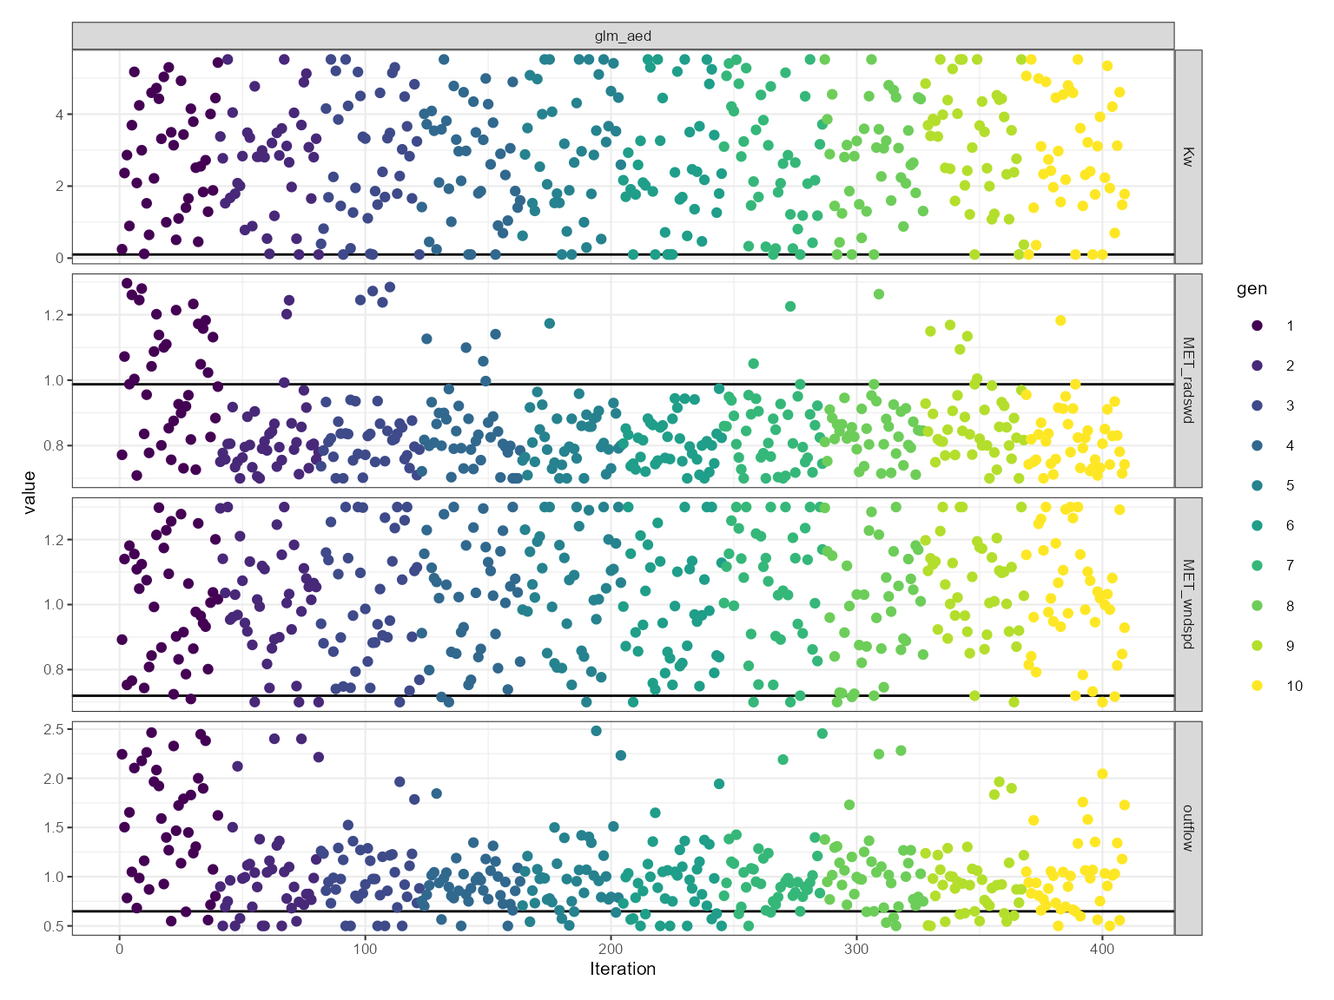
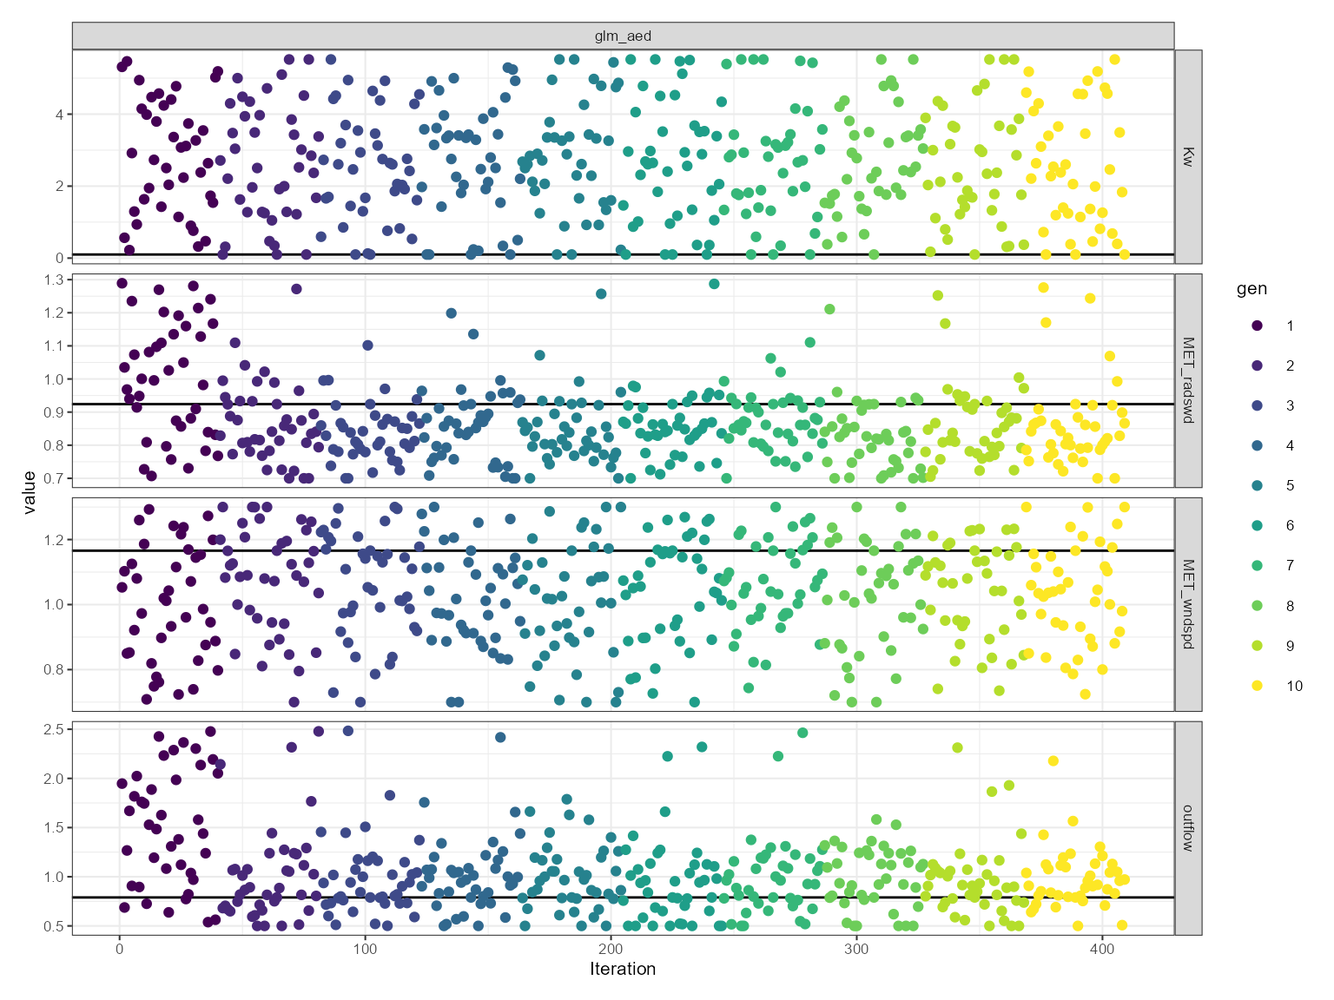
Deploying to gh-pages from @ limnotrack/aemetools@9dd07097c625ccba94eaa6a8db407fb41fca2c87 🚀

diff --git a/articles/calibrate-aeme.html b/articles/calibrate-aeme.html
@@ -123,7 +123,7 @@ setup. For this example, we will use the <code>glm_aed</code> model. The
 <span>                            model <span class="op">=</span> <span class="va">model</span>, mod_ctrls <span class="op">=</span> <span class="va">mod_ctrls</span>,</span>
 <span>                            inf_factor <span class="op">=</span> <span class="va">inf_factor</span>, ext_elev <span class="op">=</span> <span class="fl">5</span>,</span>
 <span>                            use_bgc <span class="op">=</span> <span class="cn">FALSE</span>, use_lw <span class="op">=</span> <span class="cn">TRUE</span><span class="op">)</span></span>
-<span><span class="co">#&gt; Building simulation for Wainamu [2023-11-03 00:59:42.915831]</span></span>
+<span><span class="co">#&gt; Building simulation for Wainamu [2023-11-03 03:39:53.589424]</span></span>
 <span><span class="co">#&gt; Using observed water level</span></span>
 <span><span class="co">#&gt; Estimating temperature using Stefan &amp; Preud'homme (2007)...</span></span>
 <span><span class="co">#&gt; Observed lake level is present. Updating initial lake model depth...</span></span>
@@ -135,9 +135,9 @@ make sure the current model setup is working.</p>
 <code class="sourceCode R"><span><span class="va">aeme_data</span> <span class="op">&lt;-</span> <span class="fu"><a href="https://rdrr.io/pkg/AEME/man/run_aeme.html" class="external-link">run_aeme</a></span><span class="op">(</span>aeme_data <span class="op">=</span> <span class="va">aeme_data</span>, model <span class="op">=</span> <span class="va">model</span>,</span>
 <span>                      verbose <span class="op">=</span> <span class="cn">FALSE</span>, mod_ctrls <span class="op">=</span> <span class="va">mod_ctrls</span>,</span>
 <span>                      path <span class="op">=</span> <span class="va">path</span><span class="op">)</span></span>
-<span><span class="co">#&gt; Running models... (Have you tried parallelizing?) [2023-11-03 00:59:44.57077]</span></span>
-<span><span class="co">#&gt; GLM-AED run successful! [2023-11-03 00:59:45.437586]</span></span>
-<span><span class="co">#&gt; Model run complete![2023-11-03 00:59:45.438628]</span></span>
+<span><span class="co">#&gt; Running models... (Have you tried parallelizing?) [2023-11-03 03:39:54.978065]</span></span>
+<span><span class="co">#&gt; GLM-AED run successful! [2023-11-03 03:39:55.828196]</span></span>
+<span><span class="co">#&gt; Model run complete![2023-11-03 03:39:55.829278]</span></span>
 <span><span class="co">#&gt; Retrieving and formatting temp for model glm_aed</span></span>
 <span><span class="co">#&gt; Retrieving and formatting salt for model glm_aed</span></span>
 <span><span class="co"># outp &lt;- AEME::output(aeme_data)</span></span>
@@ -238,9 +238,9 @@ but the model output is generate within the lake folder.</p>
 <div class="sourceCode" id="cb7"><pre class="downlit sourceCode r">
 <code class="sourceCode R"><span><span class="fu"><a href="../reference/run_aeme_param.html">run_aeme_param</a></span><span class="op">(</span>aeme_data <span class="op">=</span> <span class="va">aeme_data</span>, param <span class="op">=</span> <span class="va">aeme_parameters</span>,</span>
 <span>                 model <span class="op">=</span> <span class="va">model</span>, path <span class="op">=</span> <span class="va">path</span>, mod_ctrls <span class="op">=</span> <span class="va">mod_ctrls</span><span class="op">)</span></span>
-<span><span class="co">#&gt; Running models... (Have you tried parallelizing?) [2023-11-03 00:59:49.646355]</span></span>
-<span><span class="co">#&gt; GLM-AED run successful! [2023-11-03 00:59:50.492081]</span></span>
-<span><span class="co">#&gt; Model run complete![2023-11-03 00:59:50.493055]</span></span></code></pre></div>
+<span><span class="co">#&gt; Running models... (Have you tried parallelizing?) [2023-11-03 03:40:06.794954]</span></span>
+<span><span class="co">#&gt; GLM-AED run successful! [2023-11-03 03:40:07.537384]</span></span>
+<span><span class="co">#&gt; Model run complete![2023-11-03 03:40:07.538652]</span></span></code></pre></div>
 </div>
 <div class="section level2">
 <h2 id="calibration-setup">Calibration setup<a class="anchor" aria-label="anchor" href="#calibration-setup"></a>
@@ -374,79 +374,79 @@ values.</p>
 <span>                   param <span class="op">=</span> <span class="va">aeme_parameters</span>, model <span class="op">=</span> <span class="va">model</span>,</span>
 <span>                   mod_ctrls <span class="op">=</span> <span class="va">mod_ctrls</span>, FUN <span class="op">=</span> <span class="va">fit</span>, ctrl <span class="op">=</span> <span class="va">ctrl</span>,</span>
 <span>                   vars_sim <span class="op">=</span> <span class="va">vars_sim</span>, weights <span class="op">=</span> <span class="va">weights</span><span class="op">)</span></span>
-<span><span class="co">#&gt; Extracting indices for modelled variables [2023-11-03 00:59:50.892015]</span></span>
-<span><span class="co">#&gt; Complete! [2023-11-03 00:59:51.927541]</span></span>
+<span><span class="co">#&gt; Extracting indices for modelled variables [2023-11-03 03:40:07.935279]</span></span>
+<span><span class="co">#&gt; Complete! [2023-11-03 03:40:08.817009]</span></span>
 <span><span class="co">#&gt; Calibrating in parallel using 1 cores...</span></span>
-<span><span class="co">#&gt; Starting generation 1/10, 40 members. [2023-11-03 00:59:52.292958]</span></span>
+<span><span class="co">#&gt; Starting generation 1/10, 40 members. [2023-11-03 03:40:09.122211]</span></span>
 <span><span class="co">#&gt;        light.Kw MET_wndspd MET_radswd outflow</span></span>
-<span><span class="co">#&gt; mean      2.805     0.9993     0.9998  1.5020</span></span>
-<span><span class="co">#&gt; median    2.791     0.9994     0.9957  1.4850</span></span>
-<span><span class="co">#&gt; sd        1.586     0.1740     0.1753  0.5837</span></span>
-<span><span class="co">#&gt; Best fit: 2.451 (sd: 327.23)</span></span>
-<span><span class="co">#&gt;             Parameters: [0.118, 0.743, 0.836, 1.162]</span></span>
+<span><span class="co">#&gt; mean      2.820     0.9996     1.0000  1.5030</span></span>
+<span><span class="co">#&gt; median    2.825     0.9989     0.9981  1.5070</span></span>
+<span><span class="co">#&gt; sd        1.576     0.1750     0.1752  0.5837</span></span>
+<span><span class="co">#&gt; Best fit: 2.605 (sd: 327.378)</span></span>
+<span><span class="co">#&gt;             Parameters: [0.471, 0.876, 0.783, 1.239]</span></span>
 <span><span class="co">#&gt; Survival rate: 1</span></span>
-<span><span class="co">#&gt; Starting generation 2/10, 40 members. [2023-11-03 01:00:35.014708]</span></span>
+<span><span class="co">#&gt; Starting generation 2/10, 40 members. [2023-11-03 03:40:47.698572]</span></span>
 <span><span class="co">#&gt;        light.Kw MET_wndspd MET_radswd outflow</span></span>
-<span><span class="co">#&gt; mean      2.681     1.0090     0.8231  1.0320</span></span>
-<span><span class="co">#&gt; median    2.821     1.0160     0.7957  0.9629</span></span>
-<span><span class="co">#&gt; sd        1.450     0.1609     0.1153  0.4922</span></span>
-<span><span class="co">#&gt; Best fit: 2.4509 (sd: 236.8)</span></span>
+<span><span class="co">#&gt; mean      2.640     1.0800     0.8670  1.0010</span></span>
+<span><span class="co">#&gt; median    2.522     1.0900     0.8410  0.8659</span></span>
+<span><span class="co">#&gt; sd        1.607     0.1607     0.1185  0.4683</span></span>
+<span><span class="co">#&gt; Best fit: 2.3298 (sd: 215.42)</span></span>
 <span><span class="co">#&gt; Survival rate: 1</span></span>
-<span><span class="co">#&gt; Starting generation 3/10, 40 members. [2023-11-03 01:01:19.537972]</span></span>
+<span><span class="co">#&gt; Starting generation 3/10, 40 members. [2023-11-03 03:41:30.273111]</span></span>
 <span><span class="co">#&gt;        light.Kw MET_wndspd MET_radswd outflow</span></span>
-<span><span class="co">#&gt; mean      2.770     1.0080     0.8536  1.0050</span></span>
-<span><span class="co">#&gt; median    2.831     0.9661     0.8222  0.9764</span></span>
-<span><span class="co">#&gt; sd        1.727     0.1936     0.1498  0.3299</span></span>
-<span><span class="co">#&gt; Best fit: 2.4474 (sd: 185.47)</span></span>
+<span><span class="co">#&gt; mean      2.544     1.0610    0.83650  0.9765</span></span>
+<span><span class="co">#&gt; median    2.604     1.1090    0.82870  0.9031</span></span>
+<span><span class="co">#&gt; sd        1.489     0.1614    0.08511  0.3794</span></span>
+<span><span class="co">#&gt; Best fit: 2.3298 (sd: 206.41)</span></span>
 <span><span class="co">#&gt; Survival rate: 1</span></span>
-<span><span class="co">#&gt; Starting generation 4/10, 40 members. [2023-11-03 01:02:04.70572]</span></span>
+<span><span class="co">#&gt; Starting generation 4/10, 40 members. [2023-11-03 03:42:12.734401]</span></span>
 <span><span class="co">#&gt;        light.Kw MET_wndspd MET_radswd outflow</span></span>
-<span><span class="co">#&gt; mean      2.624     1.0140     0.8439  0.9268</span></span>
-<span><span class="co">#&gt; median    2.898     1.0360     0.8139  0.9114</span></span>
-<span><span class="co">#&gt; sd        1.529     0.1776     0.1146  0.2417</span></span>
-<span><span class="co">#&gt; Best fit: 2.345 (sd: 118.21)</span></span>
+<span><span class="co">#&gt; mean      2.680      1.021     0.8587  1.0080</span></span>
+<span><span class="co">#&gt; median    2.794      1.012     0.8650  0.9890</span></span>
+<span><span class="co">#&gt; sd        1.589      0.151     0.1111  0.3659</span></span>
+<span><span class="co">#&gt; Best fit: 2.3298 (sd: 190.29)</span></span>
 <span><span class="co">#&gt; Survival rate: 1</span></span>
-<span><span class="co">#&gt; Starting generation 5/10, 40 members. [2023-11-03 01:02:50.378204]</span></span>
+<span><span class="co">#&gt; Starting generation 5/10, 40 members. [2023-11-03 03:42:54.419015]</span></span>
 <span><span class="co">#&gt;        light.Kw MET_wndspd MET_radswd outflow</span></span>
-<span><span class="co">#&gt; mean      3.017     1.0520    0.82450  1.0200</span></span>
-<span><span class="co">#&gt; median    2.968     1.0670    0.80030  0.9763</span></span>
-<span><span class="co">#&gt; sd        1.734     0.1775    0.09415  0.4058</span></span>
-<span><span class="co">#&gt; Best fit: 2.345 (sd: 223.28)</span></span>
+<span><span class="co">#&gt; mean      2.809     1.0060     0.8446  0.9972</span></span>
+<span><span class="co">#&gt; median    2.715     1.0160     0.8242  0.9656</span></span>
+<span><span class="co">#&gt; sd        1.514     0.1755     0.1029  0.3287</span></span>
+<span><span class="co">#&gt; Best fit: 2.3298 (sd: 206.14)</span></span>
 <span><span class="co">#&gt; Survival rate: 1</span></span>
-<span><span class="co">#&gt; Starting generation 6/10, 40 members. [2023-11-03 01:03:34.892398]</span></span>
+<span><span class="co">#&gt; Starting generation 6/10, 40 members. [2023-11-03 03:43:37.098902]</span></span>
 <span><span class="co">#&gt;        light.Kw MET_wndspd MET_radswd outflow</span></span>
-<span><span class="co">#&gt; mean      2.562     0.9847    0.80870  0.9324</span></span>
-<span><span class="co">#&gt; median    2.175     0.9670    0.80610  0.9340</span></span>
-<span><span class="co">#&gt; sd        1.730     0.1790    0.07234  0.3289</span></span>
-<span><span class="co">#&gt; Best fit: 2.345 (sd: 182.9)</span></span>
+<span><span class="co">#&gt; mean      2.652     1.0390     0.8597  0.9405</span></span>
+<span><span class="co">#&gt; median    2.646     1.0560     0.8499  0.9375</span></span>
+<span><span class="co">#&gt; sd        1.688     0.1604     0.1001  0.4224</span></span>
+<span><span class="co">#&gt; Best fit: 2.3298 (sd: 185.48)</span></span>
 <span><span class="co">#&gt; Survival rate: 1</span></span>
-<span><span class="co">#&gt; Starting generation 7/10, 40 members. [2023-11-03 01:04:19.840863]</span></span>
+<span><span class="co">#&gt; Starting generation 7/10, 40 members. [2023-11-03 03:44:19.65776]</span></span>
 <span><span class="co">#&gt;        light.Kw MET_wndspd MET_radswd outflow</span></span>
-<span><span class="co">#&gt; mean      2.761     1.0540     0.8421  1.0120</span></span>
-<span><span class="co">#&gt; median    2.823     1.0830     0.8448  0.9382</span></span>
-<span><span class="co">#&gt; sd        1.745     0.1878     0.1110  0.3733</span></span>
-<span><span class="co">#&gt; Best fit: 2.3313 (sd: 189.96)</span></span>
+<span><span class="co">#&gt; mean      2.659     1.0590    0.87260  0.9952</span></span>
+<span><span class="co">#&gt; median    2.805     1.0540    0.86160  0.9625</span></span>
+<span><span class="co">#&gt; sd        1.599     0.1341    0.08583  0.3978</span></span>
+<span><span class="co">#&gt; Best fit: 2.3298 (sd: 164.87)</span></span>
 <span><span class="co">#&gt; Survival rate: 1</span></span>
-<span><span class="co">#&gt; Starting generation 8/10, 40 members. [2023-11-03 01:05:04.352137]</span></span>
+<span><span class="co">#&gt; Starting generation 8/10, 40 members. [2023-11-03 03:45:01.78786]</span></span>
 <span><span class="co">#&gt;        light.Kw MET_wndspd MET_radswd outflow</span></span>
-<span><span class="co">#&gt; mean      2.706     0.9856    0.84790  1.0410</span></span>
-<span><span class="co">#&gt; median    2.832     0.9955    0.84500  1.0000</span></span>
-<span><span class="co">#&gt; sd        1.507     0.1778    0.09623  0.3859</span></span>
-<span><span class="co">#&gt; Best fit: 2.3313 (sd: 203.18)</span></span>
+<span><span class="co">#&gt; mean      2.689     1.0230     0.8263  0.9887</span></span>
+<span><span class="co">#&gt; median    2.438     1.0340     0.8250  0.9806</span></span>
+<span><span class="co">#&gt; sd        1.401     0.1681     0.1008  0.3038</span></span>
+<span><span class="co">#&gt; Best fit: 2.3298 (sd: 162.33)</span></span>
 <span><span class="co">#&gt; Survival rate: 1</span></span>
-<span><span class="co">#&gt; Starting generation 9/10, 40 members. [2023-11-03 01:05:48.448981]</span></span>
+<span><span class="co">#&gt; Starting generation 9/10, 40 members. [2023-11-03 03:45:43.994798]</span></span>
 <span><span class="co">#&gt;        light.Kw MET_wndspd MET_radswd outflow</span></span>
-<span><span class="co">#&gt; mean      3.216     1.0540     0.8740  0.9471</span></span>
-<span><span class="co">#&gt; median    3.508     1.0850     0.8450  0.9145</span></span>
-<span><span class="co">#&gt; sd        1.564     0.1504     0.1162  0.3508</span></span>
-<span><span class="co">#&gt; Best fit: 2.3313 (sd: 180.54)</span></span>
+<span><span class="co">#&gt; mean      2.490     1.0380     0.8636  0.9599</span></span>
+<span><span class="co">#&gt; median    2.244     1.0670     0.8470  0.9060</span></span>
+<span><span class="co">#&gt; sd        1.573     0.1482     0.1121  0.3772</span></span>
+<span><span class="co">#&gt; Best fit: 2.3298 (sd: 192.57)</span></span>
 <span><span class="co">#&gt; Survival rate: 1</span></span>
-<span><span class="co">#&gt; Starting generation 10/10, 40 members. [2023-11-03 01:06:33.871577]</span></span>
+<span><span class="co">#&gt; Starting generation 10/10, 40 members. [2023-11-03 03:46:27.110659]</span></span>
 <span><span class="co">#&gt;        light.Kw MET_wndspd MET_radswd outflow</span></span>
-<span><span class="co">#&gt; mean      2.871     1.0210    0.81990  0.9874</span></span>
-<span><span class="co">#&gt; median    2.740     1.0190    0.81290  0.9404</span></span>
-<span><span class="co">#&gt; sd        1.666     0.1819    0.09704  0.3621</span></span>
-<span><span class="co">#&gt; Best fit: 2.3313 (sd: 221.66)</span></span>
+<span><span class="co">#&gt; mean      2.529     1.0290     0.8598  0.9765</span></span>
+<span><span class="co">#&gt; median    2.382     1.0360     0.8285  0.9181</span></span>
+<span><span class="co">#&gt; sd        1.670     0.1536     0.1294  0.2985</span></span>
+<span><span class="co">#&gt; Best fit: 2.3298 (sd: 156.32)</span></span>
 <span><span class="co">#&gt; Survival rate: 1</span></span></code></pre></div>
 </div>
 <div class="section level2">

diff --git a/reference/update_param.html b/reference/update_param.html
@@ -1,0 +1,94 @@
+<!DOCTYPE html>
+<!-- Generated by pkgdown: do not edit by hand --><html lang="en"><head><meta http-equiv="Content-Type" content="text/html; charset=UTF-8"><meta charset="utf-8"><meta http-equiv="X-UA-Compatible" content="IE=edge"><meta name="viewport" content="width=device-width, initial-scale=1, shrink-to-fit=no"><meta name="description" content="Update parameter values in param based on best_pars"><title>Update parameter values in param based on best_pars — update_param • aemetools</title><script src="../deps/jquery-3.6.0/jquery-3.6.0.min.js"></script><meta name="viewport" content="width=device-width, initial-scale=1, shrink-to-fit=no"><link href="../deps/bootstrap-5.2.2/bootstrap.min.css" rel="stylesheet"><script src="../deps/bootstrap-5.2.2/bootstrap.bundle.min.js"></script><!-- Font Awesome icons --><link rel="stylesheet" href="https://cdnjs.cloudflare.com/ajax/libs/font-awesome/5.12.1/css/all.min.css" integrity="sha256-mmgLkCYLUQbXn0B1SRqzHar6dCnv9oZFPEC1g1cwlkk=" crossorigin="anonymous"><link rel="stylesheet" href="https://cdnjs.cloudflare.com/ajax/libs/font-awesome/5.12.1/css/v4-shims.min.css" integrity="sha256-wZjR52fzng1pJHwx4aV2AO3yyTOXrcDW7jBpJtTwVxw=" crossorigin="anonymous"><!-- bootstrap-toc --><script src="https://cdn.jsdelivr.net/gh/afeld/bootstrap-toc@v1.0.1/dist/bootstrap-toc.min.js" integrity="sha256-4veVQbu7//Lk5TSmc7YV48MxtMy98e26cf5MrgZYnwo=" crossorigin="anonymous"></script><!-- headroom.js --><script src="https://cdnjs.cloudflare.com/ajax/libs/headroom/0.11.0/headroom.min.js" integrity="sha256-AsUX4SJE1+yuDu5+mAVzJbuYNPHj/WroHuZ8Ir/CkE0=" crossorigin="anonymous"></script><script src="https://cdnjs.cloudflare.com/ajax/libs/headroom/0.11.0/jQuery.headroom.min.js" integrity="sha256-ZX/yNShbjqsohH1k95liqY9Gd8uOiE1S4vZc+9KQ1K4=" crossorigin="anonymous"></script><!-- clipboard.js --><script src="https://cdnjs.cloudflare.com/ajax/libs/clipboard.js/2.0.6/clipboard.min.js" integrity="sha256-inc5kl9MA1hkeYUt+EC3BhlIgyp/2jDIyBLS6k3UxPI=" crossorigin="anonymous"></script><!-- search --><script src="https://cdnjs.cloudflare.com/ajax/libs/fuse.js/6.4.6/fuse.js" integrity="sha512-zv6Ywkjyktsohkbp9bb45V6tEMoWhzFzXis+LrMehmJZZSys19Yxf1dopHx7WzIKxr5tK2dVcYmaCk2uqdjF4A==" crossorigin="anonymous"></script><script src="https://cdnjs.cloudflare.com/ajax/libs/autocomplete.js/0.38.0/autocomplete.jquery.min.js" integrity="sha512-GU9ayf+66Xx2TmpxqJpliWbT5PiGYxpaG8rfnBEk1LL8l1KGkRShhngwdXK1UgqhAzWpZHSiYPc09/NwDQIGyg==" crossorigin="anonymous"></script><script src="https://cdnjs.cloudflare.com/ajax/libs/mark.js/8.11.1/mark.min.js" integrity="sha512-5CYOlHXGh6QpOFA/TeTylKLWfB3ftPsde7AnmhuitiTX4K5SqCLBeKro6sPS8ilsz1Q4NRx3v8Ko2IBiszzdww==" crossorigin="anonymous"></script><!-- pkgdown --><script src="../pkgdown.js"></script><meta property="og:title" content="Update parameter values in param based on best_pars — update_param"><meta property="og:description" content="Update parameter values in param based on best_pars"><!-- mathjax --><script src="https://cdnjs.cloudflare.com/ajax/libs/mathjax/2.7.5/MathJax.js" integrity="sha256-nvJJv9wWKEm88qvoQl9ekL2J+k/RWIsaSScxxlsrv8k=" crossorigin="anonymous"></script><script src="https://cdnjs.cloudflare.com/ajax/libs/mathjax/2.7.5/config/TeX-AMS-MML_HTMLorMML.js" integrity="sha256-84DKXVJXs0/F8OTMzX4UR909+jtl4G7SPypPavF+GfA=" crossorigin="anonymous"></script><!--[if lt IE 9]>
+<script src="https://oss.maxcdn.com/html5shiv/3.7.3/html5shiv.min.js"></script>
+<script src="https://oss.maxcdn.com/respond/1.4.2/respond.min.js"></script>
+<![endif]--></head><body>
+    <a href="#main" class="visually-hidden-focusable">Skip to contents</a>
+    
+
+    <nav class="navbar fixed-top navbar-dark navbar-expand-lg bg-primary"><div class="container">
+    
+    <a class="navbar-brand me-2" href="../index.html">aemetools</a>
+
+    <small class="nav-text text-muted me-auto" data-bs-toggle="tooltip" data-bs-placement="bottom" title="">0.0.0.9000</small>
+
+    
+    <button class="navbar-toggler" type="button" data-bs-toggle="collapse" data-bs-target="#navbar" aria-controls="navbar" aria-expanded="false" aria-label="Toggle navigation">
+      <span class="navbar-toggler-icon"></span>
+    </button>
+
+    <div id="navbar" class="collapse navbar-collapse ms-3">
+      <ul class="navbar-nav me-auto"><li class="active nav-item">
+  <a class="nav-link" href="../reference/index.html">Reference</a>
+</li>
+<li class="nav-item dropdown">
+  <a href="#" class="nav-link dropdown-toggle" data-bs-toggle="dropdown" role="button" aria-expanded="false" aria-haspopup="true" id="dropdown-articles">Articles</a>
+  <div class="dropdown-menu" aria-labelledby="dropdown-articles">
+    <a class="dropdown-item" href="../articles/calibrate-aeme.html">Calibrate AEME</a>
+    <a class="dropdown-item" href="../articles/download-era5.html">Download ERA5 data</a>
+  </div>
+</li>
+      </ul><form class="form-inline my-2 my-lg-0" role="search">
+        <input type="search" class="form-control me-sm-2" aria-label="Toggle navigation" name="search-input" data-search-index="../search.json" id="search-input" placeholder="Search for" autocomplete="off"></form>
+
+      <ul class="navbar-nav"></ul></div>
+
+    
+  </div>
+</nav><div class="container template-reference-topic">
+<div class="row">
+  <main id="main" class="col-md-9"><div class="page-header">
+      <img src="" class="logo" alt=""><h1>Update parameter values in param based on best_pars</h1>
+      
+      <div class="d-none name"><code>update_param.Rd</code></div>
+    </div>
+
+    <div class="ref-description section level2">
+    <p>Update parameter values in param based on best_pars</p>
+    </div>
+
+    <div class="section level2">
+    <h2 id="ref-usage">Usage<a class="anchor" aria-label="anchor" href="#ref-usage"></a></h2>
+    <div class="sourceCode"><pre class="sourceCode r"><code><span><span class="fu">update_param</span><span class="op">(</span><span class="va">param</span>, <span class="va">best_pars</span><span class="op">)</span></span></code></pre></div>
+    </div>
+
+    <div class="section level2">
+    <h2 id="arguments">Arguments<a class="anchor" aria-label="anchor" href="#arguments"></a></h2>
+    <dl><dt>param</dt>
+<dd><p>A data frame with parameters to update</p></dd>
+
+
+<dt>best_pars</dt>
+<dd><p>A data frame with the best parameters from <code>get_param</code></p></dd>
+
+</dl></div>
+    <div class="section level2">
+    <h2 id="value">Value<a class="anchor" aria-label="anchor" href="#value"></a></h2>
+    
+
+<p>data frame with updated parameter values for running the model with
+<code>run_aeme_param</code></p>
+
+
+    </div>
+
+  </main><aside class="col-md-3"><nav id="toc"><h2>On this page</h2>
+    </nav></aside></div>
+
+
+    <footer><div class="pkgdown-footer-left">
+  <p></p><p>Developed by Tadhg Moore, Chris McBride.</p>
+</div>
+
+<div class="pkgdown-footer-right">
+  <p></p><p>Site built with <a href="https://pkgdown.r-lib.org/" class="external-link">pkgdown</a> 2.0.7.</p>
+</div>
+
+    </footer></div>
+
+  
+
+  
+
+  </body></html>
+

diff --git a/articles/download-era5.html b/articles/download-era5.html
@@ -95,8 +95,8 @@ your computer to speed up the download.</p>
 <span><span class="va">met</span> <span class="op">&lt;-</span> <span class="fu"><a href="../reference/get_era5_point.html">get_era5_point</a></span><span class="op">(</span>lat <span class="op">=</span> <span class="va">lat</span>, lon <span class="op">=</span> <span class="va">lon</span>, years <span class="op">=</span> <span class="fl">2000</span><span class="op">:</span><span class="fl">2001</span>,</span>
 <span>                      variables <span class="op">=</span> <span class="va">variables</span>, format <span class="op">=</span> <span class="st">"aeme"</span>, parallel <span class="op">=</span> <span class="cn">TRUE</span><span class="op">)</span></span>
 <span><span class="co">#&gt; Auto-refreshing stale OAuth token.</span></span>
-<span><span class="co">#&gt; Downloading ERA5 variables in parallel... [2023-11-03 01:07:34.363869]</span></span>
-<span><span class="co">#&gt; Finished downloading ERA5 variables! [2023-11-03 01:07:48.387563]</span></span>
+<span><span class="co">#&gt; Downloading ERA5 variables in parallel... [2023-11-03 03:47:24.120699]</span></span>
+<span><span class="co">#&gt; Finished downloading ERA5 variables! [2023-11-03 03:47:37.423442]</span></span>
 <span><span class="fu"><a href="https://rdrr.io/r/base/summary.html" class="external-link">summary</a></span><span class="op">(</span><span class="va">met</span><span class="op">)</span></span>
 <span><span class="co">#&gt;       Date              MET_tmpair       MET_pprain     </span></span>
 <span><span class="co">#&gt;  Min.   :2000-01-01   Min.   : 3.407   Min.   : 0.0000  </span></span>

diff --git a/reference/run_aeme_param.html b/reference/run_aeme_param.html
@@ -56,7 +56,8 @@
 <span>  <span class="va">path</span>,</span>
 <span>  <span class="va">mod_ctrls</span>,</span>
 <span>  na_value <span class="op">=</span> <span class="fl">999</span>,</span>
-<span>  return_nc <span class="op">=</span> <span class="cn">FALSE</span></span>
+<span>  return_nc <span class="op">=</span> <span class="cn">FALSE</span>,</span>
+<span>  return_aeme <span class="op">=</span> <span class="cn">FALSE</span></span>
 <span><span class="op">)</span></span></code></pre></div>
     </div>
 

diff --git a/reference/index.html b/reference/index.html
@@ -127,6 +127,11 @@
           <code><a href="run_GR.html">run_GR()</a></code> 
         </dt>
         <dd>Run GR model</dd>
+      </dl><dl><dt>
+          
+          <code><a href="update_param.html">update_param()</a></code> 
+        </dt>
+        <dd>Update parameter values in param based on best_pars</dd>
       </dl></div>
   </main></div>
 
